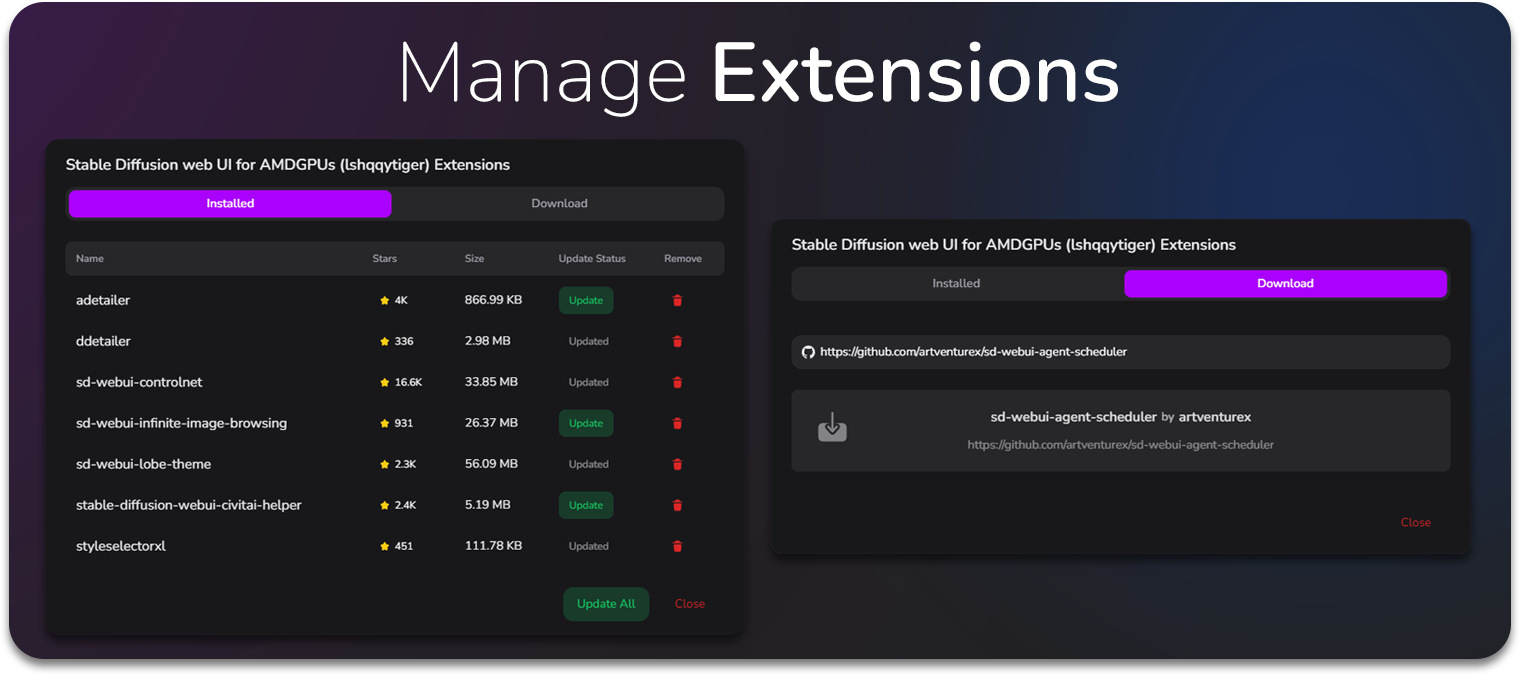
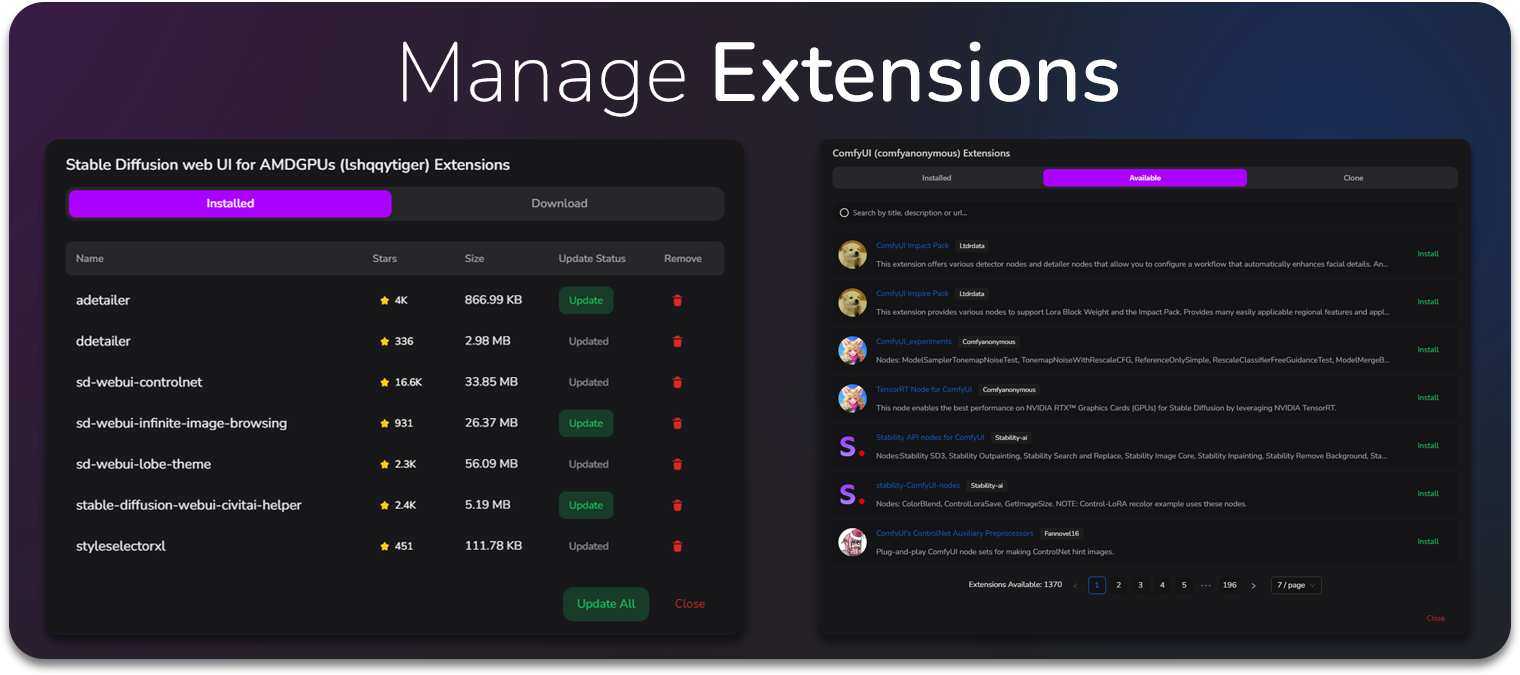
readme: Update v1.1.0 changes readme: Add download links

diff --git a/README.md b/README.md
@@ -8,12 +8,12 @@
 
 Seamlessly install, configure, launch, and manage all your AI interfaces from a single, intuitive platform.
 
-![GitHub Release][github-release-shield]
-![GitHub Release Date][github-release-date-shield]
-![GitHub Downloads (all assets, all releases)][github-downloads-shield]
+[![GitHub Release][github-release-shield]](https://github.com/KindaBrazy/LynxHub/releases)
+[![GitHub Release Date][github-release-date-shield]](https://github.com/KindaBrazy/LynxHub/releases)
+[![GitHub Downloads (all assets, all releases)][github-downloads-shield]](https://github.com/KindaBrazy/LynxHub/releases)
 
-![Discord][discord-shield]
-![GitHub Repo stars][github-repo-stars-shield]
+[![Discord][discord-shield]](https://discord.gg/e8rBzhtcnK)
+[![GitHub Repo stars][github-repo-stars-shield]](https://github.com/KindaBrazy/LynxHub)
 
 ![LynxHub Dashboard](/readme/screenshots/MainScreenshot.png)
 
@@ -35,14 +35,6 @@ Seamlessly install, configure, launch, and manage all your AI interfaces from a 
 
 </div>
 
-> [!IMPORTANT]
-> 🖥️ **Platform Availability**
->
-> The App is currently available for <img height="12" src="./readme/platforms/Windows.png"> **Windows** users.
-> I'm actively working on <img height="12" src="./readme/platforms/Linux.png"> **Linux** support, and after
-> that <img height="12" src="./readme/platforms/MacOs.png"> **macOS** release
-
-
 > [!TIP]
 > 🌟 **Exclusive Early Access**
 >
@@ -57,11 +49,24 @@ fixes, and compatibilities**
 
 </div>
 
+## 🖥 Platform Support
+
+| ![Windows](https://ziadoua.github.io/m3-Markdown-Badges/badges/Windows/windows1.svg) | ![Linux](https://ziadoua.github.io/m3-Markdown-Badges/badges/Linux/linux2.svg) | ![macOS](https://ziadoua.github.io/m3-Markdown-Badges/badges/macOS/macos1.svg) |
+|--------------------------------------------------------------------------------------|--------------------------------------------------------------------------------|--------------------------------------------------------------------------------|
+| ✔️ Available                                                                         | ✔️ Available                                                                   | 🚀 Early-Access                                                                |
+
+### 🔗 Download Links
+
+| Platform                         | x64                                                                                                                   | arm64                                                                                                                   |
+|----------------------------------|-----------------------------------------------------------------------------------------------------------------------|-------------------------------------------------------------------------------------------------------------------------|
+| **Windows 10/11** (.exe)         | [**x64 (V1.1.0)**](https://github.com/KindaBrazy/LynxHub/releases/download/V1.1.0/LynxHub-V1.1.0-win_x64-Setup.exe)   | N/A                                                                                                                     |
+| **Debian, Ubuntu** (.deb)        | [**x64 (V1.1.0)**](https://github.com/KindaBrazy/LynxHub/releases/download/V1.1.0/LynxHub-V1.1.0-linux_amd64.deb)     | [**arm64 (V1.1.0)**](https://github.com/KindaBrazy/LynxHub/releases/download/V1.1.0/LynxHub-V1.1.0-linux_arm64.deb)     |
+| **Red Hat, Fedora, SUSE** (.rpm) | [**x86_64 (V1.1.0)**](https://github.com/KindaBrazy/LynxHub/releases/download/V1.1.0/LynxHub-V1.1.0-linux_x86_64.rpm) | [**aarch64 (V1.1.0)**](https://github.com/KindaBrazy/LynxHub/releases/download/V1.1.0/LynxHub-V1.1.0-linux_aarch64.rpm) |
+
 ## 🗂️ Table of Contents
 
 - ✨ [Feature Overview](#-feature-overview)
 - 🖼️ [Screenshots](#-screenshots)
-- 🖥 [Platform Support](#-platform-support)
 - 📦 [Installation](#-installation)
 - 🔧 [Development](#-development)
 - 🤝 [Contributing](#-contributing)
@@ -113,6 +118,9 @@ Add and remove custom terminal commands as alternatives to default module-provid
 
 - **Install**, **Update** and **Uninstall** extensions
     - Batch update all extensions or update individually
+    - Option to enable Auto update all extensions
+- **List** of all available extensions
+    - View and install all available extensions for WebUI interfaces.
 
 ### 🖥️ In-App Tools
 
@@ -225,10 +233,6 @@ Streamlined extension management for each AI interface.
 
 </div>
 
-> [!NOTE]
->
-> `⚒️ In Development:` Working on listing and downloading all available extensions for all AI interfaces.
-
 ![Manage extensions screenshot](/readme/screenshots/Extensions.png)
 
 <br/>
@@ -260,12 +264,6 @@ Flexible update options with detailed changelogs:
 
 
 </details>
-
-## 🖥 Platform Support
-
-| ![Windows](https://ziadoua.github.io/m3-Markdown-Badges/badges/Windows/windows1.svg) | ![Linux](https://ziadoua.github.io/m3-Markdown-Badges/badges/Linux/linux2.svg) | ![macOS](https://ziadoua.github.io/m3-Markdown-Badges/badges/macOS/macos1.svg) |
-|--------------------------------------------------------------------------------------|--------------------------------------------------------------------------------|--------------------------------------------------------------------------------|
-| ✔️ Available                                                                         | ⚒️ In Development...                                                           | ⏳ Scheduled                                                                    |
 
 ## 📦 Installation
 